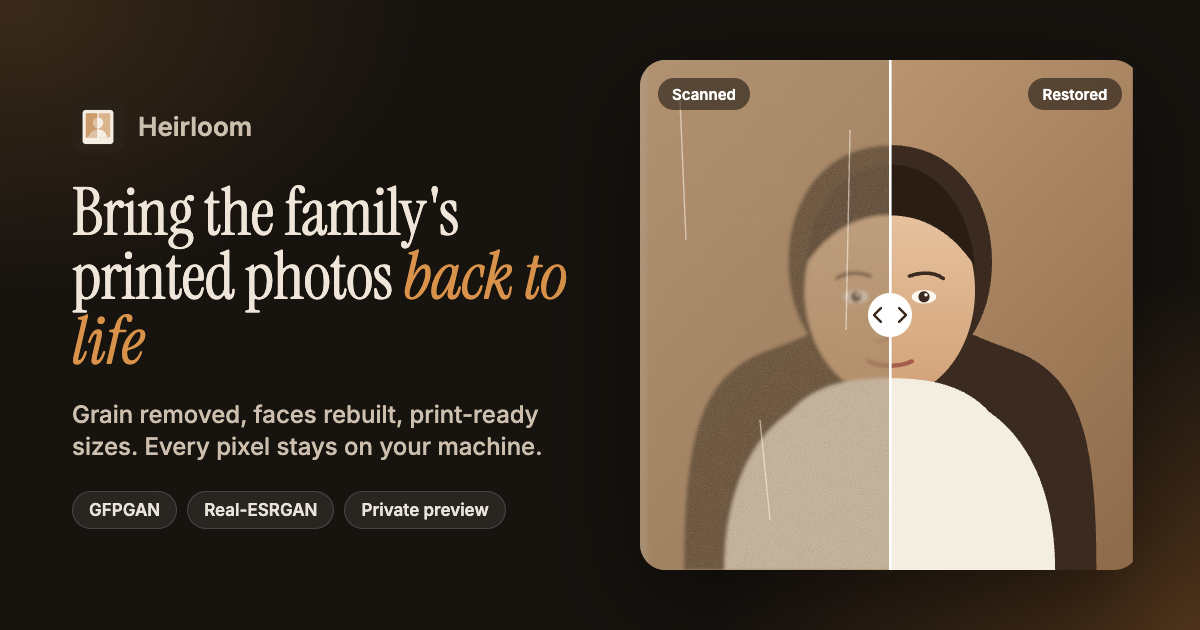
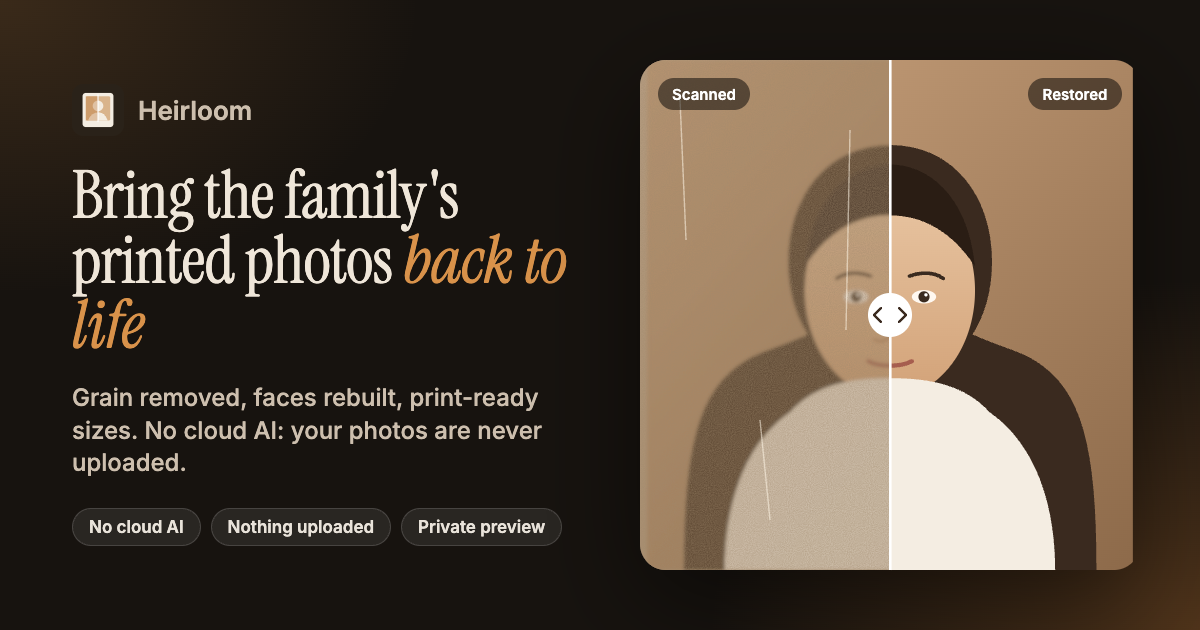
Say it plainly: no cloud AI, photos never uploaded or used for training; refresh share image

Changed region(s): [[0.0617, 0.2714, 0.4933, 0.754], [0.0617, 0.7841, 0.4625, 0.8746], [0.0617, 0.1508, 0.2158, 0.2413]]

diff --git a/public/index.html b/public/index.html
@@ -4,24 +4,24 @@
 <meta charset="utf-8">
 <meta name="viewport" content="width=device-width, initial-scale=1">
 <title>Heirloom: bring the family's printed photos back to life</title>
-<meta name="description" content="Heirloom restores scanned family prints: paper grain removed, faces rebuilt from a learned prior, the whole frame upscaled to print size. Private preview, runs on your own machine.">
+<meta name="description" content="Heirloom restores scanned family prints: paper grain removed, faces rebuilt, the whole frame upscaled to print size. No cloud AI, nothing uploaded, nothing used for training. Private preview.">
 <link rel="canonical" href="https://heirloom.sankhacooray.com/">
 <meta name="theme-color" content="#2a2219">
 
 <meta property="og:type" content="website">
 <meta property="og:site_name" content="Heirloom">
 <meta property="og:title" content="Heirloom: bring the family's printed photos back to life">
-<meta property="og:description" content="Scanned prints in, print-ready photos out. Grain removed, faces rebuilt, frame upscaled, every pixel stays on your machine.">
+<meta property="og:description" content="Scanned prints in, print-ready photos out. Grain removed, faces rebuilt, frame upscaled. No cloud AI, your photos are never uploaded or used for training.">
 <meta property="og:url" content="https://heirloom.sankhacooray.com/">
-<meta property="og:image" content="https://heirloom.sankhacooray.com/og.png?v=1">
+<meta property="og:image" content="https://heirloom.sankhacooray.com/og.png?v=2">
 <meta property="og:image:width" content="1200">
 <meta property="og:image:height" content="630">
 <meta property="og:image:alt" content="Heirloom: a faded, grainy scanned portrait on the left and the same portrait restored on the right, split by a wipe line">
 <meta property="og:locale" content="en_US">
 <meta name="twitter:card" content="summary_large_image">
 <meta name="twitter:title" content="Heirloom: bring the family's printed photos back to life">
-<meta name="twitter:description" content="Scanned prints in, print-ready photos out. Grain removed, faces rebuilt, frame upscaled, every pixel stays on your machine.">
-<meta name="twitter:image" content="https://heirloom.sankhacooray.com/og.png?v=1">
+<meta name="twitter:description" content="Scanned prints in, print-ready photos out. Grain removed, faces rebuilt, frame upscaled. No cloud AI, your photos are never uploaded or used for training.">
+<meta name="twitter:image" content="https://heirloom.sankhacooray.com/og.png?v=2">
 <meta name="twitter:image:alt" content="Before and after of a scanned portrait restored by Heirloom">
 
 <link rel="icon" href="icon.svg" type="image/svg+xml">
@@ -196,10 +196,10 @@ main{padding:0 clamp(16px,4vw,56px)}
       <div>
         <p class="eyebrow">Family photo restoration</p>
         <h1>Bring the family's printed photos <em>back to life</em></h1>
-        <p>Scan the print. Heirloom removes the paper grain, rebuilds the faces from a learned prior, upscales the whole frame and tells you how large it can be printed. Nothing leaves your machine.</p>
+        <p>Scan the print. Heirloom removes the paper grain, rebuilds the faces, upscales the whole frame and tells you how large it can be printed. No cloud AI: your photos are never uploaded to an AI service and never used to train one.</p>
         <div class="chips">
           <span class="chip acc"><svg viewBox="0 0 24 24"><circle cx="12" cy="8" r="4"/><path d="M4 21c1-5 4-7 8-7s7 2 8 7"/></svg>Faces rebuilt</span>
-          <span class="chip"><svg viewBox="0 0 24 24"><rect x="4" y="10" width="16" height="11" rx="2"/><path d="M8 10V7a4 4 0 0 1 8 0v3"/></svg>Private by design</span>
+          <span class="chip"><svg viewBox="0 0 24 24"><rect x="4" y="10" width="16" height="11" rx="2"/><path d="M8 10V7a4 4 0 0 1 8 0v3"/></svg>No cloud AI, nothing uploaded</span>
           <span class="chip"><svg viewBox="0 0 24 24"><path d="M6 9V3h12v6M6 18H4a2 2 0 0 1-2-2v-5a2 2 0 0 1 2-2h16a2 2 0 0 1 2 2v5a2 2 0 0 1-2 2h-2"/><rect x="6" y="14" width="12" height="7"/></svg>Print-ready sizes</span>
         </div>
       </div>
@@ -330,8 +330,8 @@ main{padding:0 clamp(16px,4vw,56px)}
       <div>
         <p class="eyebrow">Private preview</p>
         <h2>Request access</h2>
-        <p class="note">Heirloom Studio runs on your own machine today and is moving to a private, sign-in only service. Tell me about the archive you want to restore and I will send an invite when a seat opens.</p>
-        <div class="chips"><span class="chip">No upload to third parties</span><span class="chip">Originals never changed</span></div>
+        <p class="note">Heirloom Studio runs on your own machine today and is moving to a private, sign-in only service. Your photos are never sent to ChatGPT, Gemini or any other AI service, and never used to train a model. Tell me about the archive you want to restore and I will send an invite when a seat opens.</p>
+        <div class="chips"><span class="chip">No cloud AI</span><span class="chip">Never used for training</span><span class="chip">Originals never changed</span></div>
       </div>
       <div id="scn-contact" data-source="heirloom.sankhacooray.com" data-pitch="A box of prints, a family album, or" data-pitch-em="one photo that matters?" data-note="Say roughly how many photos and where they are from.">
         <h2 style="font-size:clamp(26px,3.6vh,34px)">Tell me about your photos</h2>
@@ -349,7 +349,7 @@ main{padding:0 clamp(16px,4vw,56px)}
 <div class="overlay" id="overlay" role="dialog" aria-modal="true" aria-labelledby="ovTitle">
   <div class="box">
     <h3 id="ovTitle">Your photos stay yours</h3>
-    <p>Heirloom processes scans on the machine it runs on. Originals are read, never modified; every result is written as a new file beside them. No image is sent to a third-party service.</p>
+    <p>Heirloom processes scans on the machine it runs on. Originals are read, never modified; every result is written as a new file beside them. No image is sent to ChatGPT, Gemini or any other cloud AI service, and nothing you restore is used to train a model.</p>
     <p>Restored faces are a reconstruction: GFPGAN regenerates skin and eye detail from a learned prior, so the result is a faithful likeness rather than a recovered negative. The face-rebuild control lets you keep more of the original texture.</p>
     <p>Models: GFPGAN v1.4, Real-ESRGAN x4plus, RetinaFace (facexlib), ParseNet. Research use of the published models under their respective licences.</p>
     <button class="close" id="ovClose">Close</button>

diff --git a/og/og.html b/og/og.html
@@ -27,8 +27,8 @@
       Heirloom
     </div>
     <h1>Bring the family's printed photos <em>back to life</em></h1>
-    <p class="sub">Grain removed, faces rebuilt, print-ready sizes. Every pixel stays on your machine.</p>
-    <div class="tag"><b>GFPGAN</b><b>Real-ESRGAN</b><b>Private preview</b></div>
+    <p class="sub">Grain removed, faces rebuilt, print-ready sizes. No cloud AI: your photos are never uploaded.</p>
+    <div class="tag"><b>No cloud AI</b><b>Nothing uploaded</b><b>Private preview</b></div>
   </div>
   <div class="right">
     <svg class="art" viewBox="0 0 500 510" xmlns="http://www.w3.org/2000/svg">
